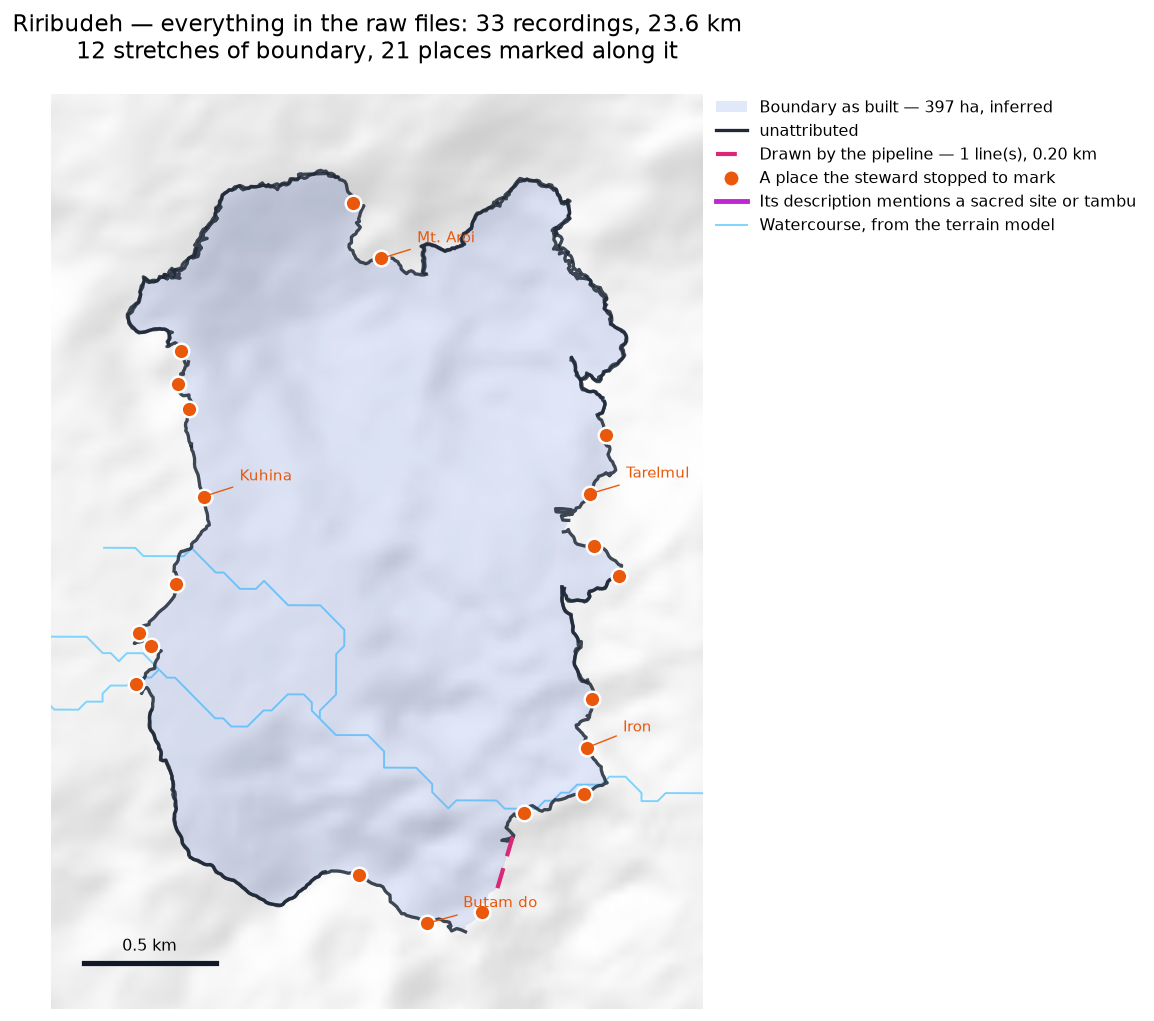
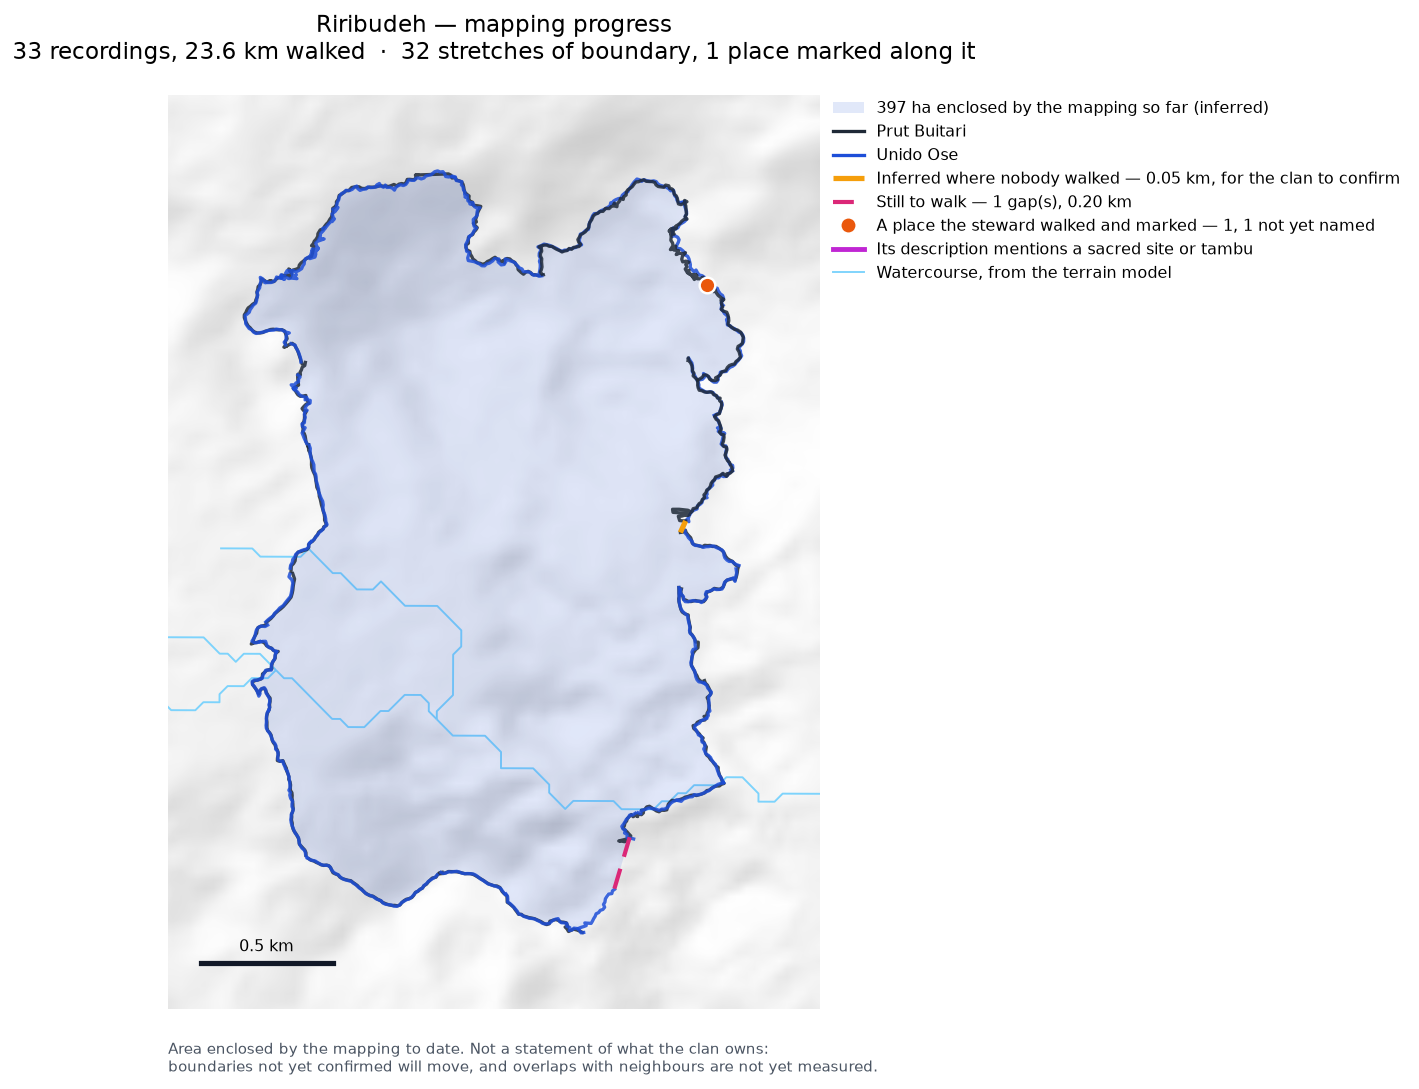
Riribudeh re-checked; chained vs inferred decided at 5 m, not 30
Thirty metres measures how near the walk passes, not whether the ground
was walked. Riribudeh's 48 m straight join scores 100% at 30 m and 44%
at 5 m, and we established this morning that both stewards break across
that span and nobody walked it. It was being reported as chained.

At 5 m, near GPS precision, the two kinds separate cleanly across all
four clans with adopted segments: lines traced along a steward's own
track hold up (88%, 92%, 97% on Gumuyude's three), lines cut across a
gap do not (44%, 7%, 19%, 8%, 1%).

Riribudeh:

  arrived        33 recordings,  23.6 km
  smoothing                      -3.2 km
  withheld                       -0.0 km
  = reached the polygon          20.4 km
      of which duplicated         9.7 km
  397 ha (inferred)
      walked                     20.4 km
      inferred where nobody walked 0.05 km
      still to walk                0.20 km

All three approved maps re-checked and standing: Gumuyude 682 ha, Dusi
227 ha, Riribudeh 397 ha.

Logged as rule 14 in MUST_HAVES.md. Also fixed a missing Point import
that stopped the map rendering at all.

Claude-Session: https://claude.ai/code/session_01K6X75MkuiGQ9rmgDZx45vk

diff --git a/scripts/everything_map.py b/scripts/everything_map.py
@@ -40,7 +40,7 @@ import matplotlib
 matplotlib.use("Agg")
 import matplotlib.pyplot as plt  # noqa: E402
 from matplotlib.lines import Line2D  # noqa: E402
-from shapely.geometry import box  # noqa: E402
+from shapely.geometry import Point, box  # noqa: E402
 from shapely.ops import unary_union  # noqa: E402
 
 sys.path.insert(0, str(Path(__file__).resolve().parent))
@@ -368,7 +368,7 @@ def main(argv: list[str] | None = None) -> int:
         # The test is measurable: how much of the segment has walked
         # line beside it.
         for segment, kind, note in derived_rows:
-            share = (segment.intersection(walked_union.buffer(30)).length
+            share = (segment.intersection(walked_union.buffer(5)).length
                      / segment.length if segment.length else 0)
             if share >= 0.80:
                 axis.plot(*segment.xy, color="#0d9488", lw=3.0, zorder=6)
@@ -489,7 +489,14 @@ def main(argv: list[str] | None = None) -> int:
     def walked_share(segment):
         if not segment.length:
             return 0.0
-        return (segment.intersection(walked_union.buffer(30)).length
+        # Five metres, near GPS precision. Thirty metres measures
+        # nearness, not whether the ground was walked: Riribudeh's 48 m
+        # straight join scores 100% at 30 m and 44% at 5 m, and we
+        # established this morning that nobody walked that span. A line
+        # traced along the steward's own track holds up at 5 m — 88%,
+        # 92%, 97% on Gumuyude's three — while a line cut across a gap
+        # does not.
+        return (segment.intersection(walked_union.buffer(5)).length
                 / segment.length)
 
     chained = [r for r in derived_rows if walked_share(r[0]) >= 0.80]

diff --git a/docs/MUST_HAVES.md b/docs/MUST_HAVES.md
@@ -79,3 +79,10 @@ Order is the order we agreed them.
     shape says — a recording that returns near its own start is a place,
     one that goes somewhere is a stretch.
     *Dusi, 11 Oct.*
+
+14. **Chained or inferred is decided at 5 m, not 30.** Thirty metres
+    measures how near the walk passes, not whether the ground was
+    walked: Riribudeh's 48 m straight join scores 100% at 30 m and 44%
+    at 5 m, and nobody walked that span. A line traced along a steward's
+    own track still holds up at 5 m.
+    *Riribudeh, 11 Oct.*
